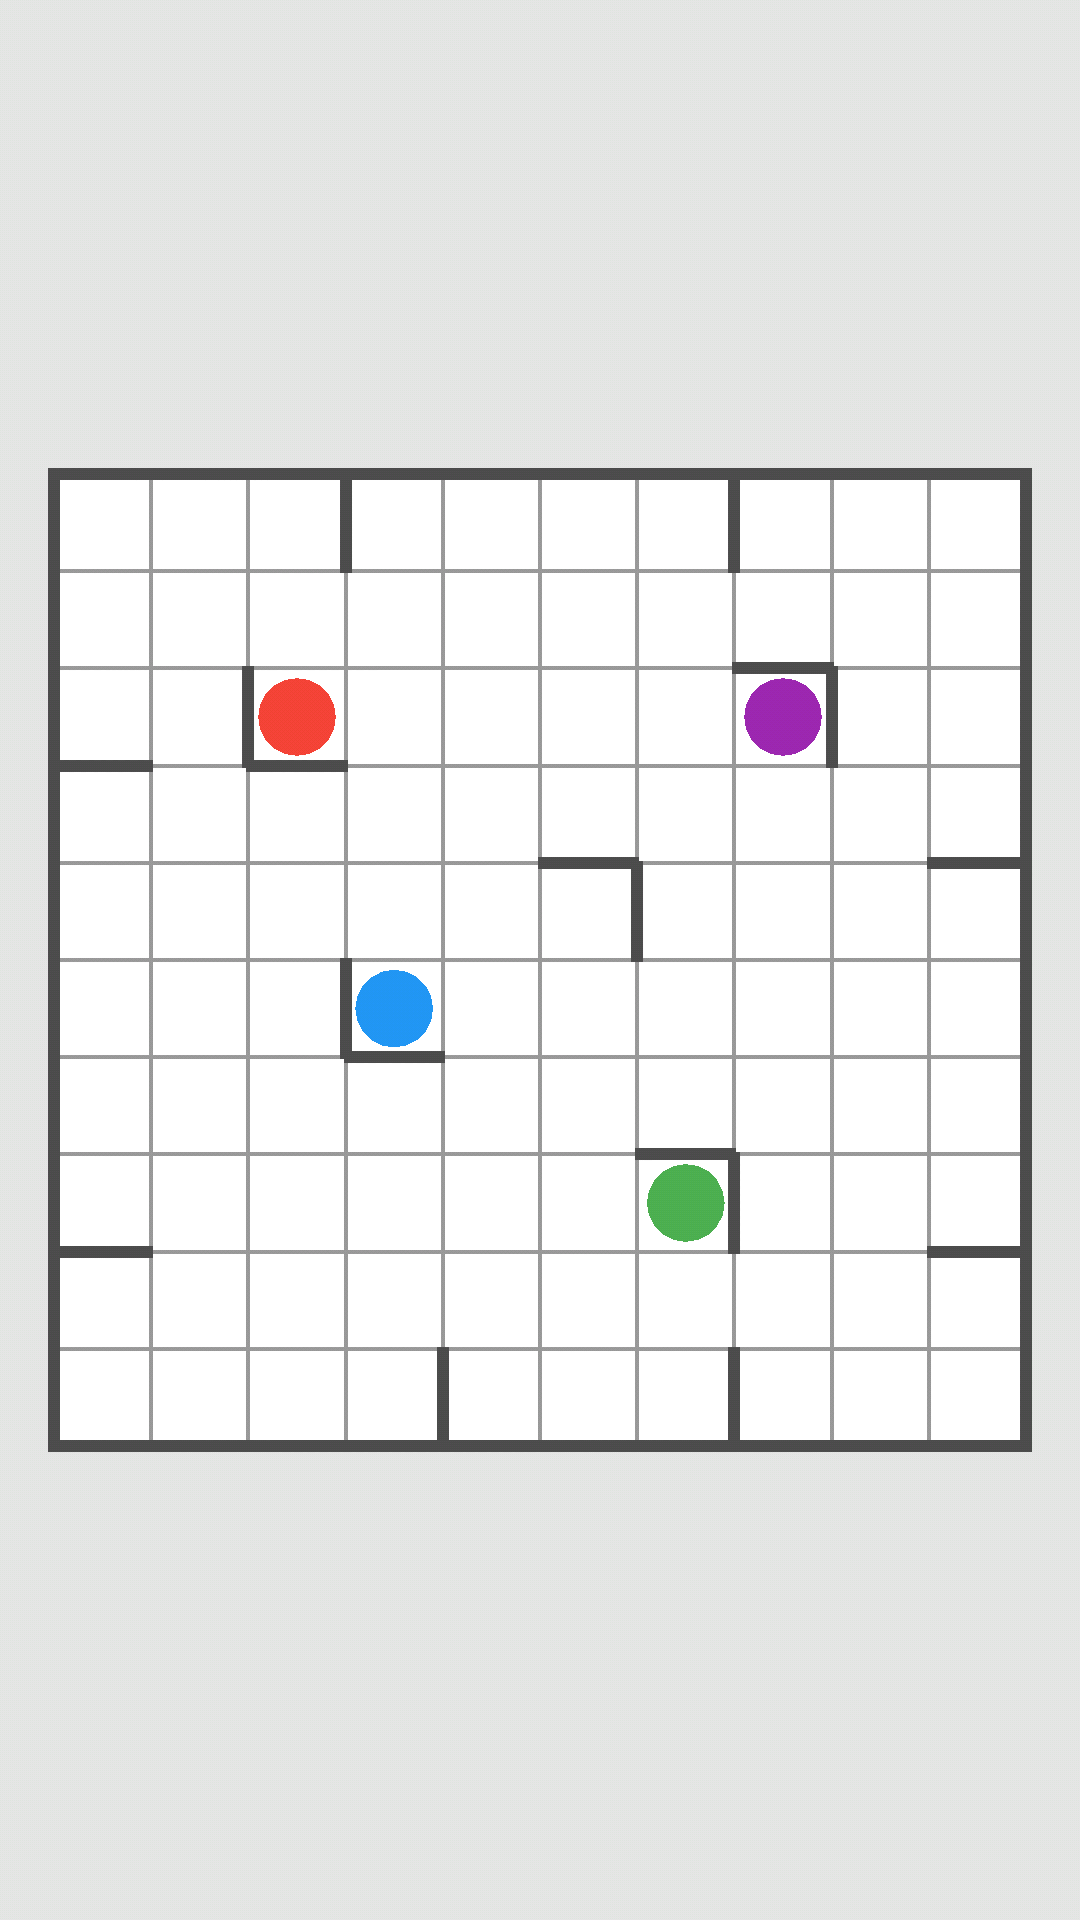
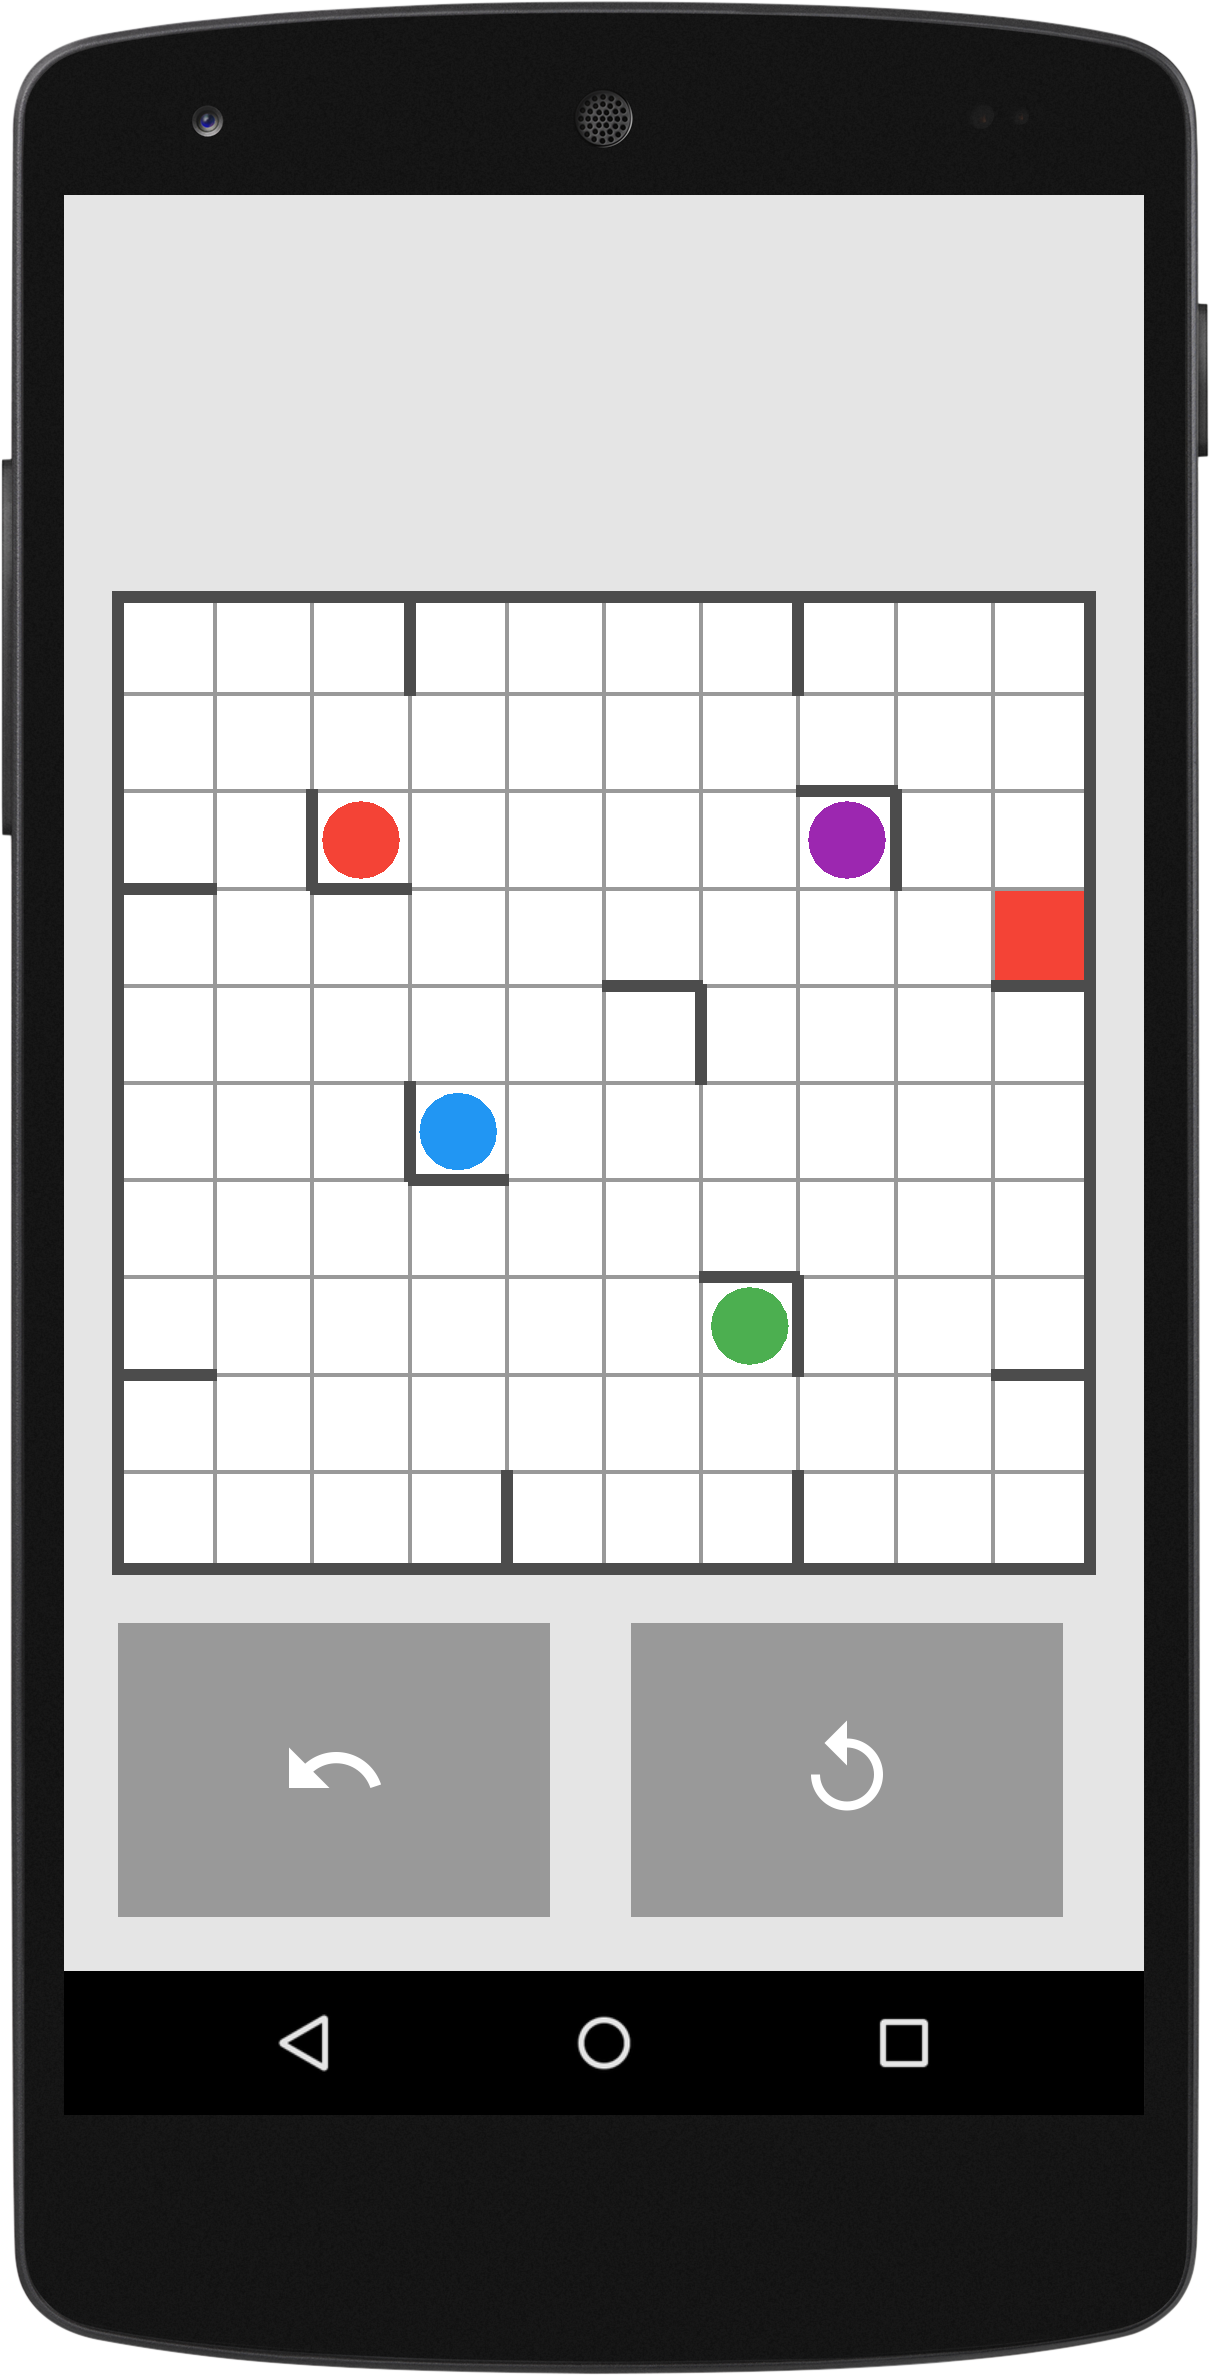
Optimization
Preparing to do something when user solves puzzle. Updated screenshot,
optimized BoardFactory assigning colors to pieces

diff --git a/core/src/com/dotbots/util/BoardFactory.java b/core/src/com/dotbots/util/BoardFactory.java
@@ -7,6 +7,7 @@ import com.dotbots.model.Piece;
 import com.dotbots.model.Wall;
 
 import java.util.ArrayList;
+import java.util.Iterator;
 import java.util.List;
 import java.util.Random;
 
@@ -26,15 +27,15 @@ public class BoardFactory {
   // ----------------------------------------------------------------------------------------------
 
   private static List<Piece> createPieces(int size) {
-    Object[] keys = {};
+    int[] keys = {};
     switch (size) {
       case 10:
         keys = pieceKeys10;
         break;
     }
     List<Piece> pieces = new ArrayList<Piece>();
-    for (int i = 0; i < keys.length; i += 3) {
-      Piece piece = new Piece((Integer) keys[i], (Integer) keys[i + 1], (Color) keys[i + 2]);
+    for (int i = 0; i < keys.length; i += 2) {
+      Piece piece = new Piece(keys[i], keys[i + 1], pieceColors[i / 2]);
       pieces.add(piece);
     }
     return pieces;
@@ -57,39 +58,28 @@ public class BoardFactory {
 
   // TODO - this should be optimized
   private static Goal createGoal(int size, List<Piece> pieces, List<Wall> walls) {
-    List<Color> colors = new ArrayList<Color>();
-    for (Piece piece : pieces) {
-      colors.add(piece.getColor());
-    }
     Random rand = new Random();
-    int randNum = rand.nextInt(colors.size());
-    Color color = colors.get(randNum);
+    int randNum = rand.nextInt(pieces.size());
+    Piece piece = pieces.get(randNum);
+    Color color = piece.getColor();
 
     List<Goal> goals = new ArrayList<Goal>();
     for (Wall wall : walls) {
       float x = wall.getX();
       float y = wall.getY();
-      Goal goal0 = new Goal(x, y - 1, color);
-      Goal goal1 = new Goal(x, y, color);
-      Goal goal2 = new Goal(x - 1, y, color);
-      Goal goal3 = new Goal(x - 1, y - 1, color);
+      Goal goal0 = new Goal(x, y - 1, color, piece);
+      Goal goal1 = new Goal(x, y, color, piece);
+      Goal goal2 = new Goal(x - 1, y, color, piece);
+      Goal goal3 = new Goal(x - 1, y - 1, color, piece);
       goals.add(goal0);
       goals.add(goal1);
       goals.add(goal2);
       goals.add(goal3);
       switch (wall.getDir()) {
-        case 0:
-          goals.remove(goal3);
-          break;
-        case 1:
-          goals.remove(goal2);
-          break;
-        case 2:
-          goals.remove(goal1);
-          break;
-        case 3:
-          goals.remove(goal0);
-          break;
+        case 0: goals.remove(goal3); break;
+        case 1: goals.remove(goal2); break;
+        case 2: goals.remove(goal1); break;
+        case 3: goals.remove(goal0); break;
       }
     }
     List<Goal> potentialGoals = new ArrayList<Goal>();
@@ -102,14 +92,23 @@ public class BoardFactory {
     return potentialGoals.get(randNum);
   }
 
+  // colors for pieces
+  // ----------------------------------------------------------------------------------------------
+
+  final static Color[] pieceColors = {
+      Color.valueOf("F44336"),
+      Color.valueOf("2196F3"),
+      Color.valueOf("4CAF50"),
+      Color.valueOf("9C27B0") };
+
   // keys for pieces
   // ----------------------------------------------------------------------------------------------
 
-  final static Object[] pieceKeys10 = {
-      2, 7, Color.valueOf("F44336"), // x, y, color
-      3, 4, Color.valueOf("2196F3"),
-      6, 2, Color.valueOf("4CAF50"),
-      7, 7, Color.valueOf("9C27B0") };
+  final static int[] pieceKeys10 = {
+      2, 7, // x, y
+      3, 4,
+      6, 2,
+      7, 7 };
 
 
   // keys for walls

diff --git a/core/src/com/dotbots/model/Board.java b/core/src/com/dotbots/model/Board.java
@@ -1,9 +1,6 @@
 package com.dotbots.model;
 
-import com.badlogic.gdx.Gdx;
-
 import java.util.ArrayList;
-import java.util.Arrays;
 import java.util.List;
 
 public class Board {
@@ -49,6 +46,7 @@ public class Board {
     if (resetting) {
       resetUpdate();
     }
+    checkSuccess();
   }
 
   // make move
@@ -72,6 +70,7 @@ public class Board {
     }
   }
 
+  // TODO - hopefully this can be optimized
   private boolean canMove(float x, float y, int dir) {
     switch (dir) {
       case 0:
@@ -173,6 +172,17 @@ public class Board {
       undoMove();
     } else {
       resetting = false;
+    }
+  }
+
+  // checks if piece made it to the goal
+  // ----------------------------------------------------------------------------------------------
+
+  private void checkSuccess() {
+    Piece piece = goal.getPiece();
+    if (goal.getX() == piece.getX() && goal.getY() == piece.getY()) {
+      // TODO - fun animation
+      // TODO - display continue button
     }
   }
 
